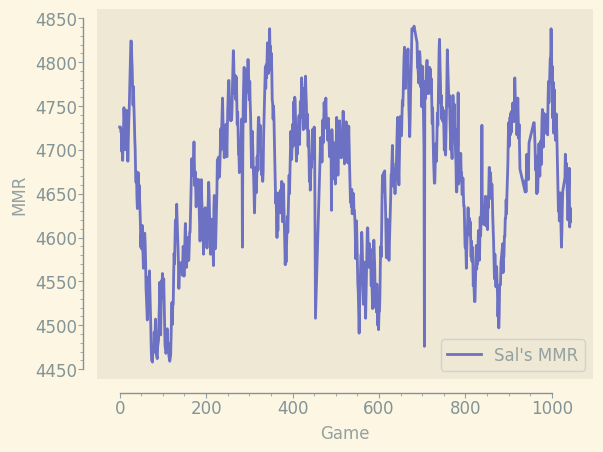
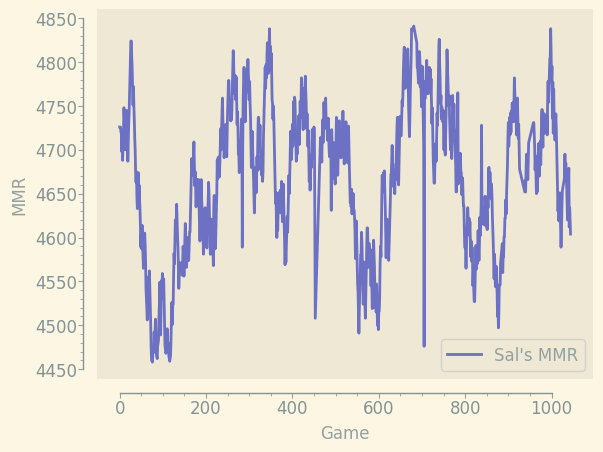
running on push

diff --git a/docs/index.md b/docs/index.md
@@ -18,7 +18,7 @@ layout: home
   <tbody>
     <tr>
       <td>Matches Played</td>
-      <td>1044</td>
+      <td>1045</td>
     </tr>
     <tr>
       <td>MMR Gained</td>
@@ -26,7 +26,7 @@ layout: home
     </tr>
     <tr>
       <td>MMR lost</td>
-      <td>10426</td>
+      <td>10440</td>
     </tr>
     <tr>
       <td>Max MMR</td>
@@ -114,7 +114,7 @@ layout: home
 
 | Race    |   Wins |   Losses |   Total |   Win Rate (%) |   MMR Gained |   MMR Lost |
 |:--------|-------:|---------:|--------:|---------------:|-------------:|-----------:|
-| Protoss |    185 |      232 |     417 |        44.3645 |         3347 |       3904 |
+| Protoss |    185 |      233 |     418 |        44.2584 |         3347 |       3918 |
 | Terran  |    105 |      145 |     250 |        42      |         2698 |       2026 |
 | Zerg    |    220 |      156 |     376 |        58.5106 |         3448 |       3405 |
 
